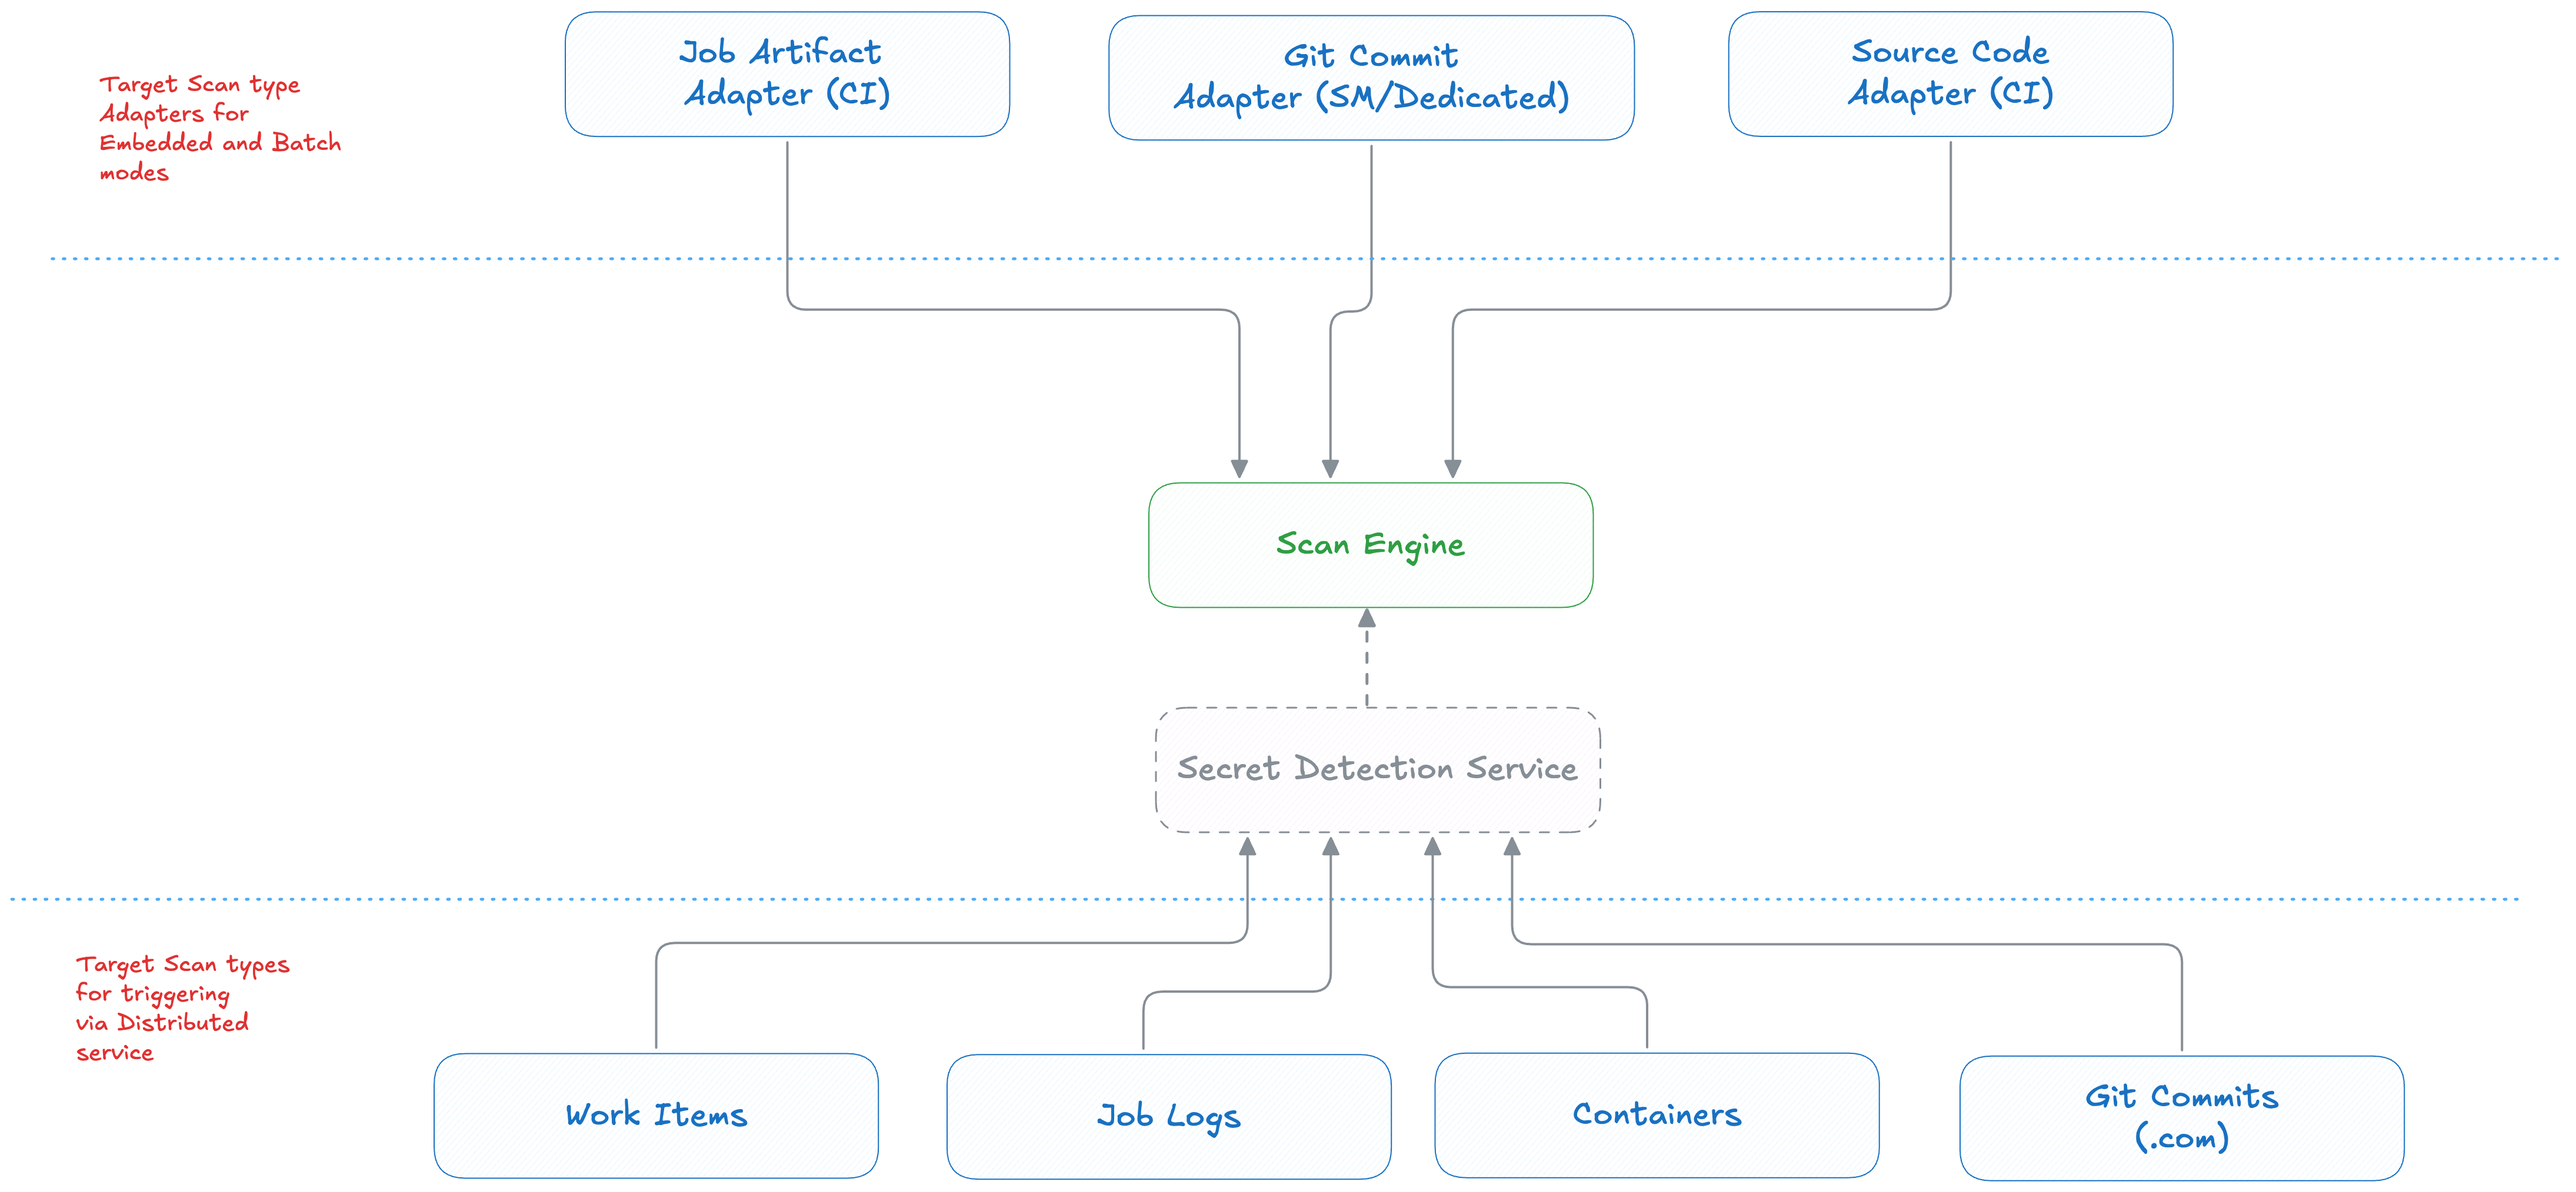
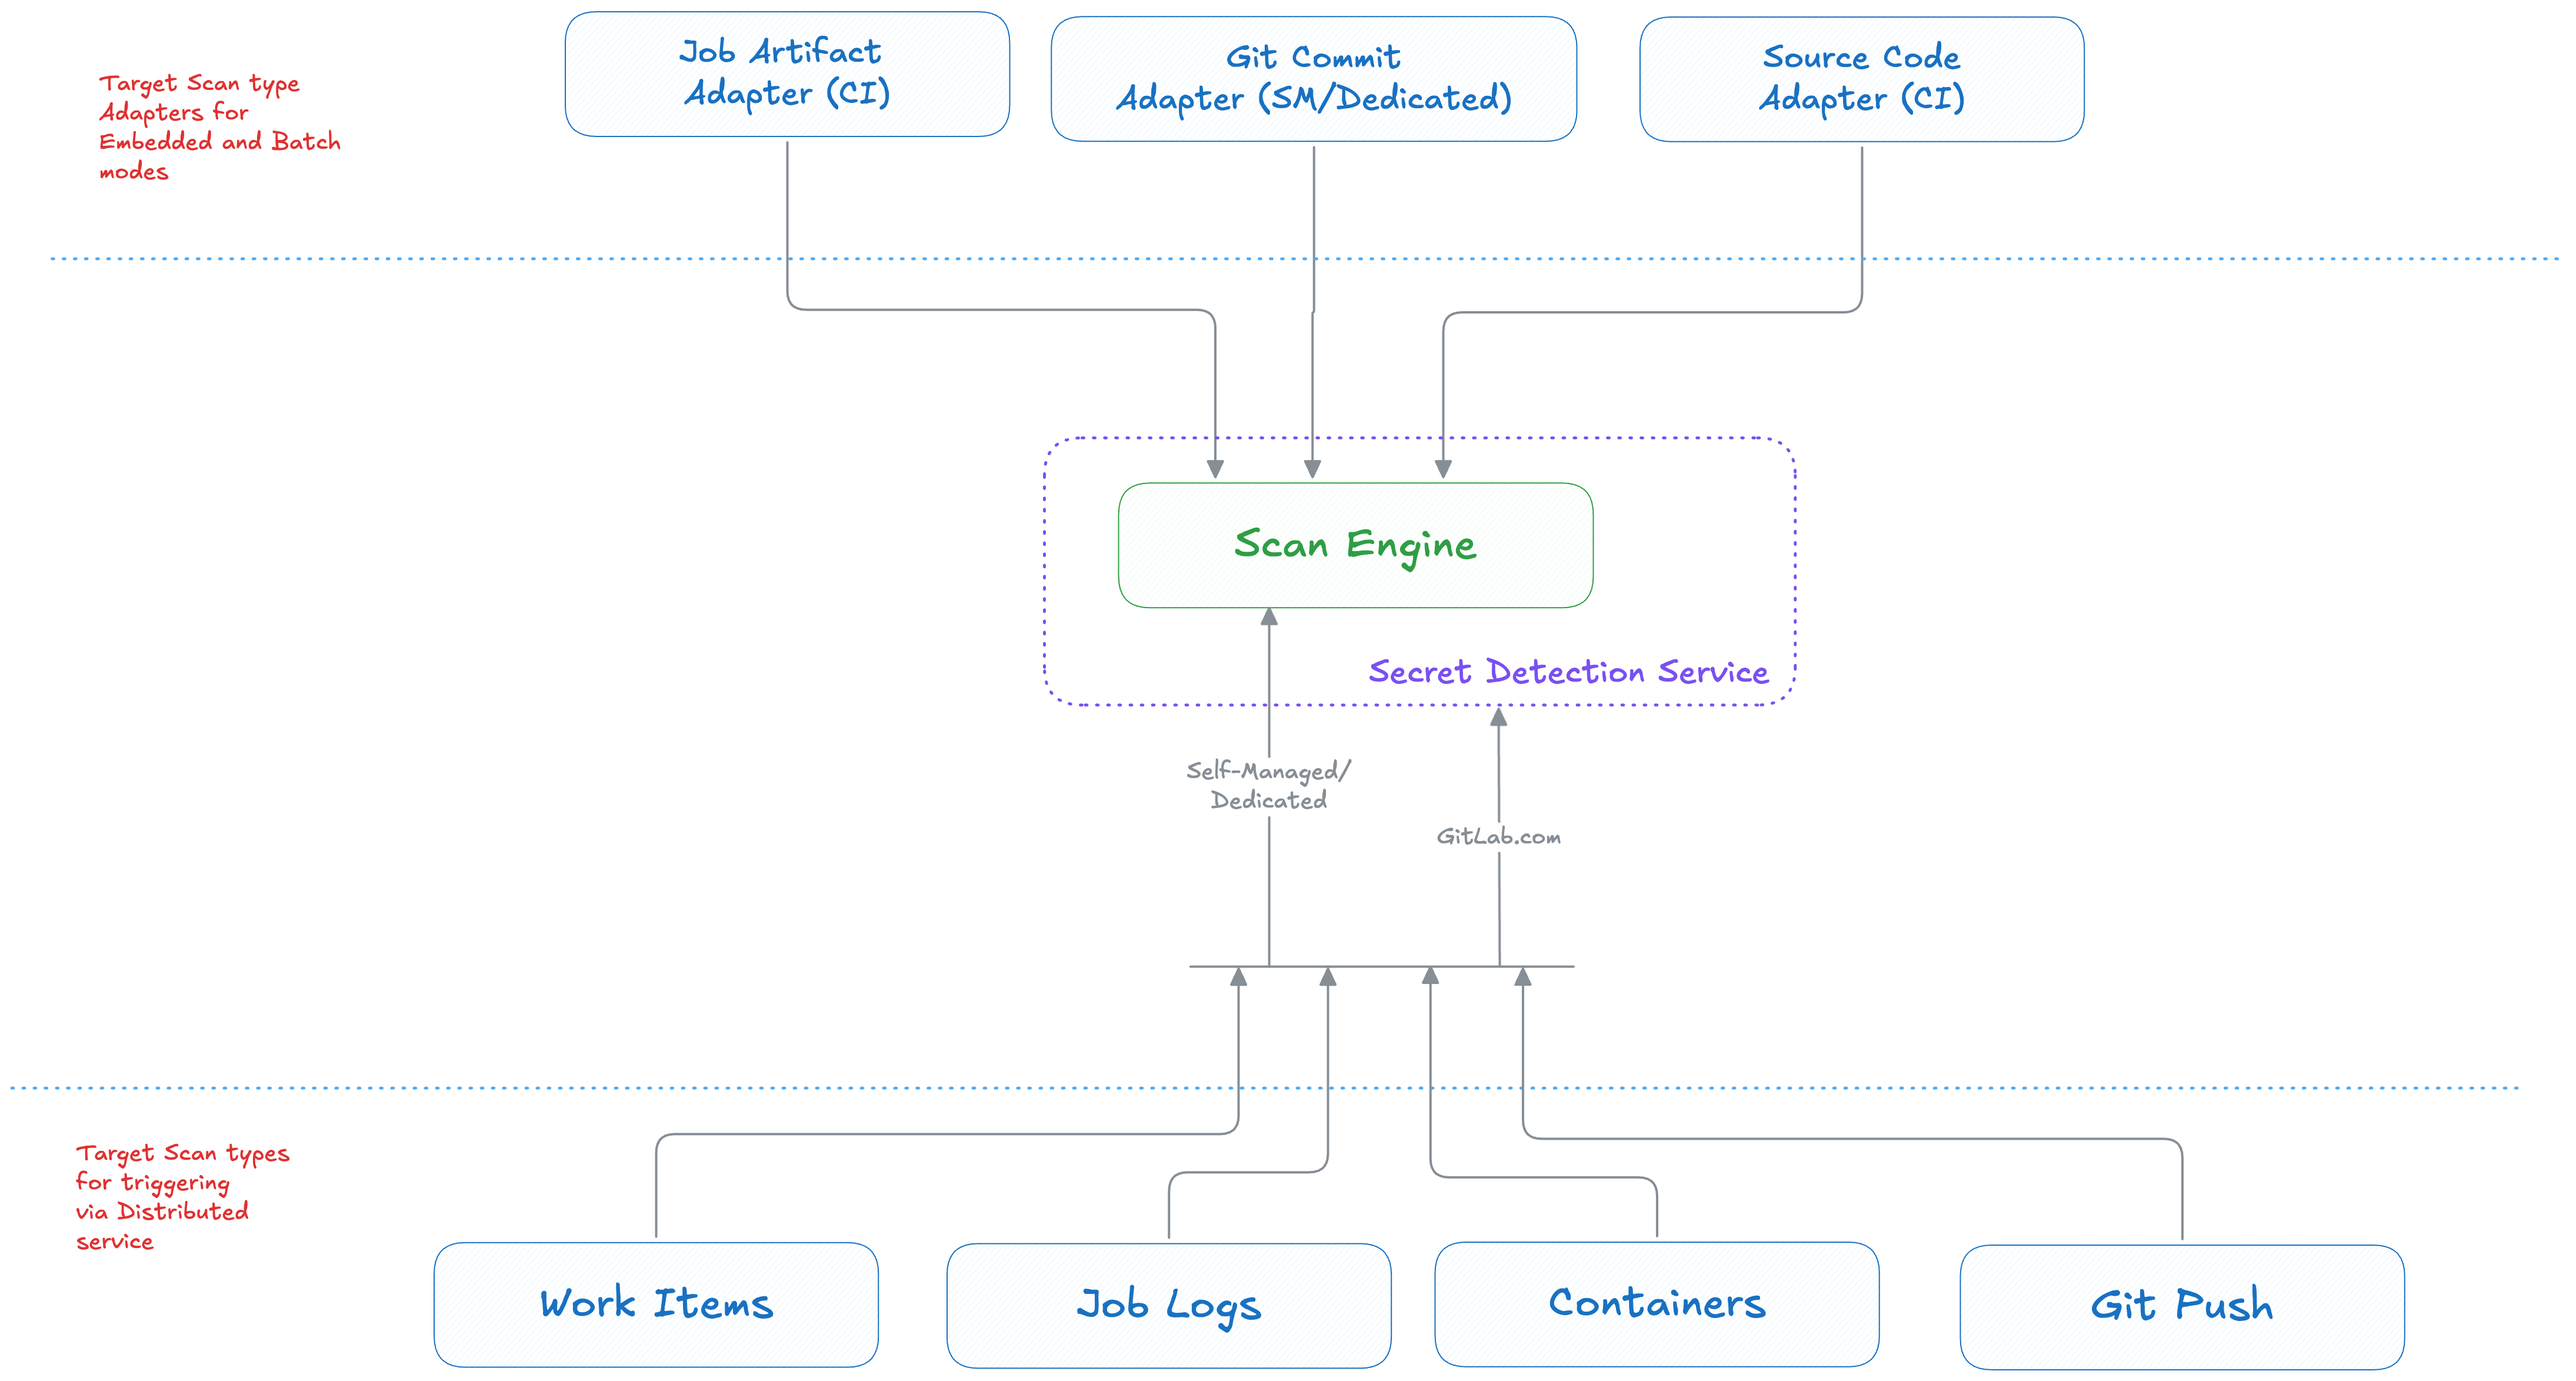
Add more details related to Adapter and Distribution

diff --git a/content/handbook/engineering/architecture/design-documents/secret_detection/decisions/008_unified_scan_engine.md b/content/handbook/engineering/architecture/design-documents/secret_detection/decisions/008_unified_scan_engine.md
@@ -37,24 +37,51 @@ The proposal is to build a unified Secret Detection core scanning engine that wi
 
 The idea of unified engine could hold true only if we have a scan engine that is highly efficient yet portable by nature. As per the [decision](007_switch_to_go_scan_engine.md), we need to have Vectorscan-based Go scan engine implemented.
 
-### Scanning Modes
+### Mode of using the Scan Engine
 
 The minimalistic scope and the stateless nature of the proposed scan engine will open up the _portability_ advantage, which is a necessity for certain target scan types (source code or job artifacts running in CI env). Therefore, the scan engine could be adopted in one of the following three modes depending on the nature of the scan target type (traffic,size,etc.):
 
-* **Distributed Service:** The scan engine will be wrapped with a REST/gRPC layer having scan API endpoints. The caller makes the scan request over the network. This mode is suitable for SD features having high traffic with lightweight payloads (\<1MB). Example: Scanning Work Items via [Secret Detection Service](https://gitlab.com/gitlab-org/security-products/secret-detection/secret-detection-service)
+* **As a Distributed Service:** The scan engine will be wrapped with a REST/gRPC layer having scan API endpoints. The caller makes the scan request over the network. This mode is suitable for SD features having high traffic with lightweight payloads (\<1MB). Example: Scanning Work Items via [Secret Detection Service](https://gitlab.com/gitlab-org/security-products/secret-detection/secret-detection-service)
 
-* **Embedded**: The core engine in this mode is _embedded_ within the same host as the caller application. The caller invokes the scan for a scannable payload. This mode is transactional by nature. We are already using this mode for the Push Protection feature where the engine is embedded as a Ruby Gem and installed in the Rails monolith. The Rails monolith makes the scan request (including `git diff` data as a scannable payload) to the gem.
+* **As an Embedded module**: The core engine in this mode is _embedded_ within the same host as the caller application. The caller invokes the scan for a scannable payload. This mode is transactional by nature. We are already using this mode for the Push Protection feature where the engine is embedded as a Ruby Gem and installed in the Rails monolith. The Rails monolith makes the scan request (including `git diff` data as a scannable payload) to the gem.
 
 ![Embedded Mode](/images/engineering/architecture/design-documents/secret_detection/008_scan_mode_embedded.png "Embedded Scan Mode")
 
-* **Batch**: This is a special case to support [in-storage processing](https://en.wikipedia.org/wiki/In-situ_processing) where the Secret Detection program (+engine) runs where the data resides. This reverse approach is suitable for scan target types having larger data sizes, like source code or job artifacts, to avoid data-transfer costs incurred b/w data storage and scan servers. The primary difference when compared to Embedded mode is that the caller includes the scannable payload within the scan request whereas in Batch mode, the caller points at the scannable payload(s) available at the target host (where the program and data reside), e.g. passing a file path along with the request.
+* **As a Batch processor**: This is a special case to support [in-storage processing](https://en.wikipedia.org/wiki/In-situ_processing) where the Secret Detection program (+engine) runs where the data resides. This reverse approach is suitable for scan target types having larger data sizes, like source code or job artifacts, to avoid data-transfer costs incurred b/w data storage and scan servers. The primary difference when compared to Embedded mode is that the caller includes the scannable payload within the scan request whereas in Batch mode, the caller points at the scannable payload(s) available at the target host (where the program and data reside), e.g. passing a file path along with the request.
 
 ![Batch Mode](/images/engineering/architecture/design-documents/secret_detection/008_scan_mode_batch.jpg "Batch Scan Mode")
 
 #### Adapters
 
-The engine's minimalistic scope of running the scan for the given payload implies that the caller should implement pre-processing and post-processing steps of the scan. Since the scan target types are located at different sources (ex: Rails/CI/Gitaly), it is important to have a consistent implementation approach across all target types for better maintainability and reusability.
+The engine's minimalistic scope of running the scan for the given payload implies that the caller should implement pre-processing and post-processing steps of the scan. Since the scan target types are located at different sources (ex: Rails/CI/Gitaly), it is important to have a consistent implementation approach across all target types for better maintainability. In addition, there is a decent amount of common logic that exist in the pre-processing and post-processing steps across different scan target types which could be reused between Adapters.
 
-We will follow the concept of `Adapters` where an `Adapter` sits between the caller and scan engine abstracting the implementation details, similar to [Language Servers](https://en.wikipedia.org/wiki/Language_Server_Protocol) for IDE. `Adapters` are primarily used in Embedded or Batch mode. Example: `SourceCodeAdapter` for scanning git-based source code in Pipeline-based SD, or `JobArtifactAdapter` for scanning job artifacts.
+We will follow the concept of `Adapters` where an `Adapter` sits between the caller and scan engine abstracting the implementation details, similar to [Language Servers](https://en.wikipedia.org/wiki/Language_Server_Protocol) for IDE. `Adapters` are primarily used in Embedded or Batch mode. 
+
+![Workflow representing Adapters and Scan engine responsibilities](/images/engineering/architecture/design-documents/secret_detection/008_adapters.png "Workflow representation")
+
+**Example Scenario**: We're currently using `gitleaks` scan engine in Pipeline SD scan. Though `gitleaks` offer a lot of functionalities we don't needed, there are three of them needed for this usecase:
+
+1. To traverse through the git commit tree and retrieve diff data for each commit
+2. Run secret detection scan on the retrieved content(scannable payload) efficiently (ex: scan parallelly, early-exit through keyword-based match, filter noise/FP on the detected findings through entropy etc.)
+3. Create a consumable response as requested by the client via scan params
+
+The above process typically the same for any scan target type where the `Step 1` represents pre-processing phase of the scan, `Step 2` represents the SD Scan operation itself, and finally the `Step 3` represents the post-processing phase of the scan. The pre-processing and post-processing logic are generally scan target type dependent whereas the scan logic is common across.
+
+If we replicate the above process keeping the context of Adapters + Unified scan engine, we would have an `Adapter`(say `SourceCodeAdapter`) responsible for handling pre-processing and post-processing logic whereas the `Scan engine` responsible for running the SD scan for the given scannable payloads. 
+
+Here's the comprehensive view of unified scan engine with the different Adapters, each for a scan target type.
 
 ![High-level Design for unified scan engine with Adapters](/images/engineering/architecture/design-documents/secret_detection/008_high_level_design.png "High-level Design for unified scan engine with Adapters")
+
+## Distribution
+
+Given there are different modes of using the scan engine and the Vectorscan regex engine being platform-dependent, it is important to identify how the engine is made accessible within GitLab applications.
+
+* When using the engine as a distributed (grpc) service: The grpc service will be deployed using Runway making it accessible to internal GitLab.com applications. The clients can make remote scan request to the service via grpc endpoints.
+
+* When using the engine as an Embedded module or Batch processing: Depending on the client application, the nature of embedding differs. For Go-based applications (Gitaly/Runner/Workhorse), the engine can be imported as a Go module whereas for Non Go applications (mostly Ruby for GitLab Rails), there are two choices:
+
+  1. Write Ruby C extension for a static library generated from Go's scan engine source
+  2. Package Go binary executable within GitLab Rails using Omnibus
+
+  Considering the VectorScan engine scans on a chunk of data instead of a line-by-line basis (current approach), the [high heap usage problem](https://gitlab.com/gitlab-org/gitlab/-/issues/422574#note_1582015771) is no longer the same. In addition, Vectorscan engine generally operates on a pre-allocated [scratch space](https://intel.github.io/hyperscan/dev-reference/runtime.html#scratch-space), contributing to the lower memory consumption of the scan. The throughput of calling Go methods via C-function adds barely any overhead when compared to IPC between Ruby and Go process. All the said, the decision is leaning towards writing Ruby C extension. However, we are yet to conduct a spike to confirm this decision with data-driven evidence.
